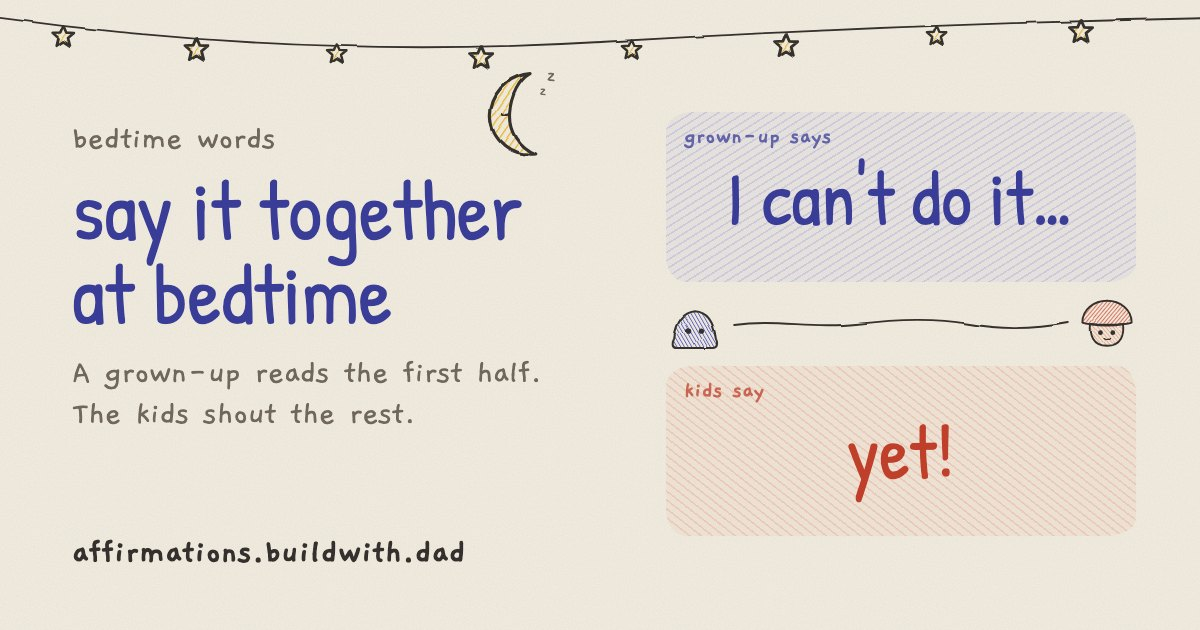
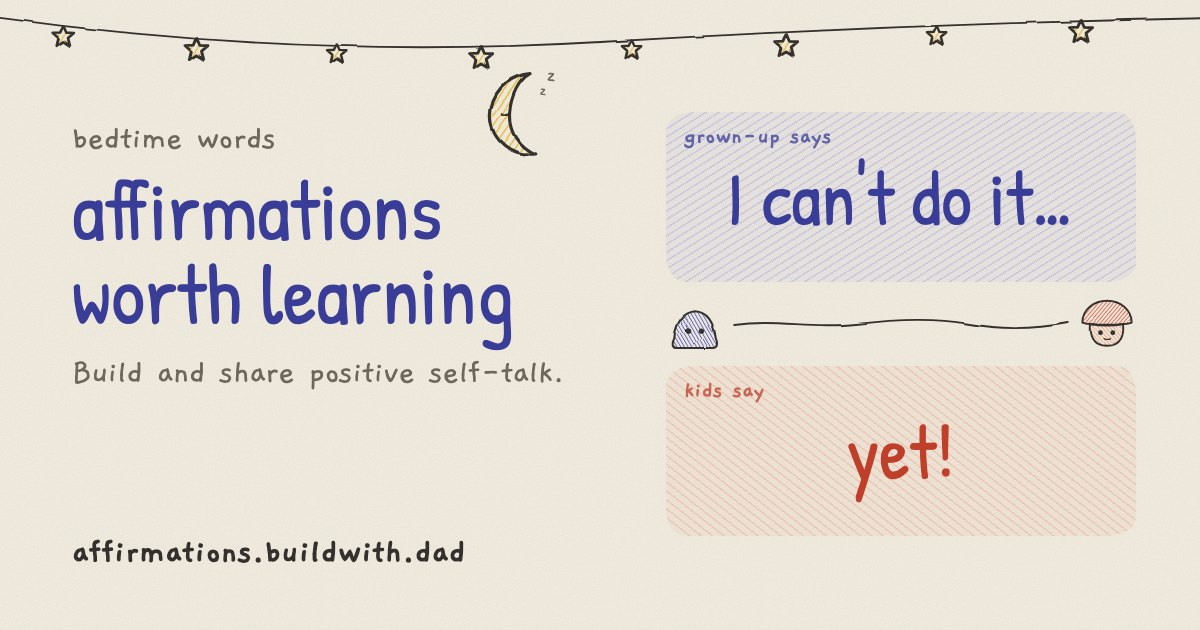
Link preview: "affirmations worth learning" (#13)
The preview headline is now "affirmations worth learning" with "Build
and share positive self-talk." under it, and the page descriptions
match. The image URL carries ?v=2 so chat apps and X fetch the new card
instead of their cached one.

Claude-Session: https://claude.ai/code/session_01Kz75rsQCzaR4wHPgVivie4

Changed region(s): [[0.0617, 0.2714, 0.4625, 0.6937]]

diff --git a/public/index.html b/public/index.html
@@ -9,13 +9,13 @@
   <meta name="mobile-web-app-capable" content="yes">
   <meta name="apple-mobile-web-app-title" content="Bedtime">
   <title>Bedtime Words</title>
-  <meta name="description" content="Say affirmations together at bedtime. A grown-up reads the first half, the kids answer with the second. No accounts; everything stays on your device.">
+  <meta name="description" content="Affirmations worth learning. Build and share positive self-talk, said together at bedtime. Free, no accounts, works offline.">
   <meta property="og:type" content="website">
   <meta property="og:site_name" content="Bedtime Words">
   <meta property="og:title" content="Bedtime Words">
-  <meta property="og:description" content="Say affirmations together at bedtime. A grown-up reads the first half, the kids shout the rest. Free, no accounts, works offline.">
+  <meta property="og:description" content="Affirmations worth learning. Build and share positive self-talk, said together at bedtime. Free, no accounts, works offline.">
   <meta property="og:url" content="https://affirmations.buildwith.dad/">
-  <meta property="og:image" content="https://affirmations.buildwith.dad/og.jpg">
+  <meta property="og:image" content="https://affirmations.buildwith.dad/og.jpg?v=2">
   <meta property="og:image:width" content="1200">
   <meta property="og:image:height" content="630">
   <meta property="og:image:alt" content="Bedtime Words: a grown-up says &quot;I can't do it&quot;, the kids say &quot;yet!&quot;">

diff --git a/public/words.html b/public/words.html
@@ -11,7 +11,7 @@
   <meta property="og:title" content="All the words · Bedtime Words">
   <meta property="og:description" content="Every bedtime affirmation, in grown-up and kid halves, with simpler versions for little ones.">
   <meta property="og:url" content="https://affirmations.buildwith.dad/words">
-  <meta property="og:image" content="https://affirmations.buildwith.dad/og.jpg">
+  <meta property="og:image" content="https://affirmations.buildwith.dad/og.jpg?v=2">
   <meta property="og:image:width" content="1200">
   <meta property="og:image:height" content="630">
   <meta property="og:image:alt" content="Bedtime Words: a grown-up says &quot;I can't do it&quot;, the kids say &quot;yet!&quot;">

diff --git a/public/credits.html b/public/credits.html
@@ -11,7 +11,7 @@
   <meta property="og:title" content="Credits · Bedtime Words">
   <meta property="og:description" content="Who made Bedtime Words and what it borrows from.">
   <meta property="og:url" content="https://affirmations.buildwith.dad/credits">
-  <meta property="og:image" content="https://affirmations.buildwith.dad/og.jpg">
+  <meta property="og:image" content="https://affirmations.buildwith.dad/og.jpg?v=2">
   <meta property="og:image:width" content="1200">
   <meta property="og:image:height" content="630">
   <meta property="og:image:alt" content="Bedtime Words: a grown-up says &quot;I can't do it&quot;, the kids say &quot;yet!&quot;">

diff --git a/public/privacy.html b/public/privacy.html
@@ -11,7 +11,7 @@
   <meta property="og:title" content="Privacy · Bedtime Words">
   <meta property="og:description" content="No accounts. Your set stays on your device.">
   <meta property="og:url" content="https://affirmations.buildwith.dad/privacy">
-  <meta property="og:image" content="https://affirmations.buildwith.dad/og.jpg">
+  <meta property="og:image" content="https://affirmations.buildwith.dad/og.jpg?v=2">
   <meta property="og:image:width" content="1200">
   <meta property="og:image:height" content="630">
   <meta property="og:image:alt" content="Bedtime Words: a grown-up says &quot;I can't do it&quot;, the kids say &quot;yet!&quot;">

diff --git a/tools/og.html b/tools/og.html
@@ -75,8 +75,8 @@
 
   <div class="left">
     <p class="kicker">bedtime words</p>
-    <h1>say it together at bedtime</h1>
-    <p class="sub">A grown-up reads the first half. The kids shout the rest.</p>
+    <h1>affirmations worth learning</h1>
+    <p class="sub">Build and share positive self-talk.</p>
   </div>
   <p class="url">affirmations.buildwith.dad</p>
 
